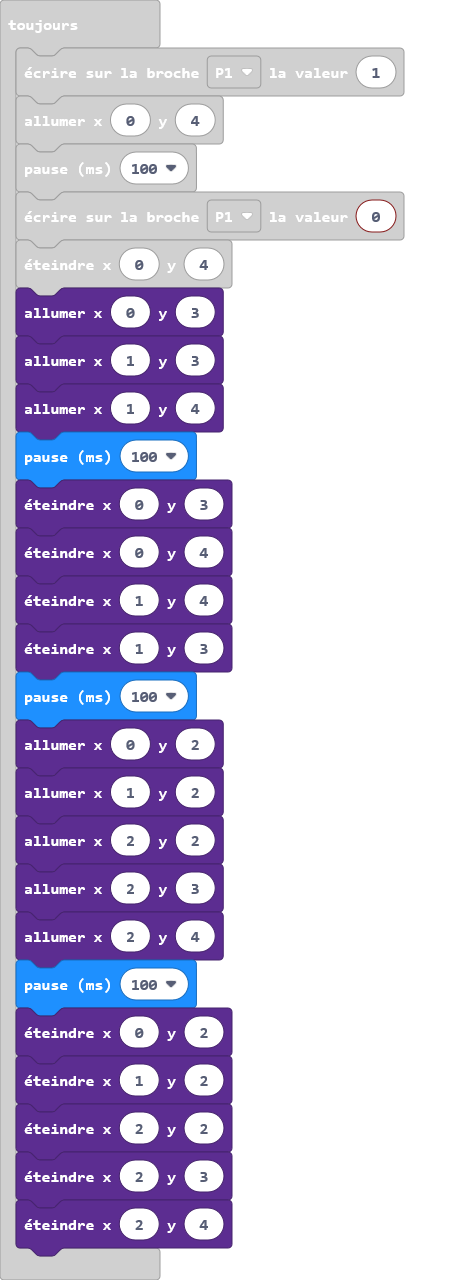
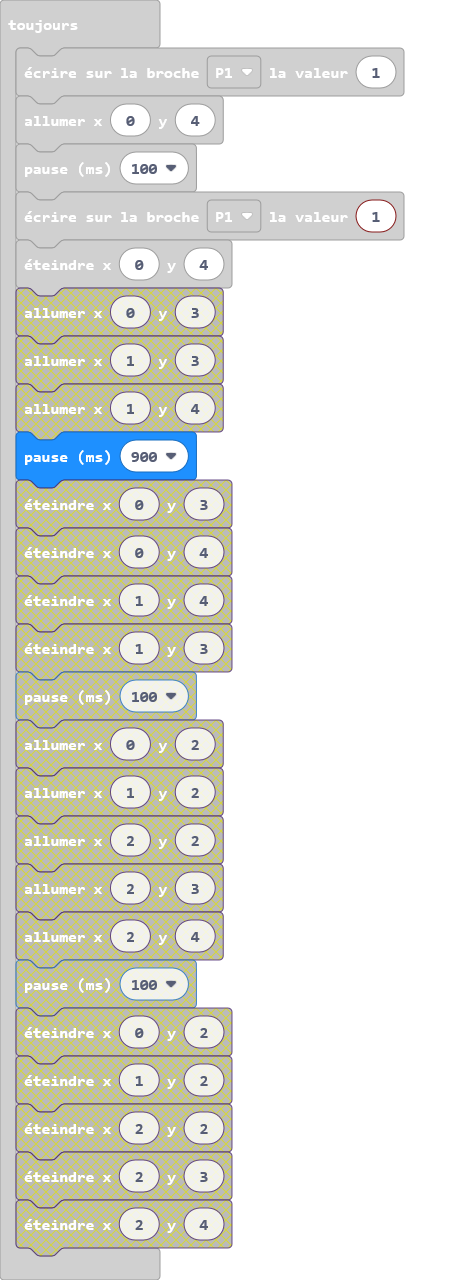
Mise à jour main.blocks, main.ts

Changed region(s): [[0.0307, 0.375, 0.5219, 1.0], [0.0307, 0.2188, 0.4912, 0.3438]]

diff --git a/main.ts b/main.ts
@@ -2,26 +2,7 @@ basic.forever(function () {
     pins.digitalWritePin(DigitalPin.P1, 1)
     led.plot(0, 4)
     basic.pause(100)
-    pins.digitalWritePin(DigitalPin.P1, 0)
+    pins.digitalWritePin(DigitalPin.P1, 1)
     led.unplot(0, 4)
-    led.plot(0, 3)
-    led.plot(1, 3)
-    led.plot(1, 4)
-    basic.pause(100)
-    led.unplot(0, 3)
-    led.unplot(0, 4)
-    led.unplot(1, 4)
-    led.unplot(1, 3)
-    basic.pause(100)
-    led.plot(0, 2)
-    led.plot(1, 2)
-    led.plot(2, 2)
-    led.plot(2, 3)
-    led.plot(2, 4)
-    basic.pause(100)
-    led.unplot(0, 2)
-    led.unplot(1, 2)
-    led.unplot(2, 2)
-    led.unplot(2, 3)
-    led.unplot(2, 4)
+    basic.pause(900)
 })
